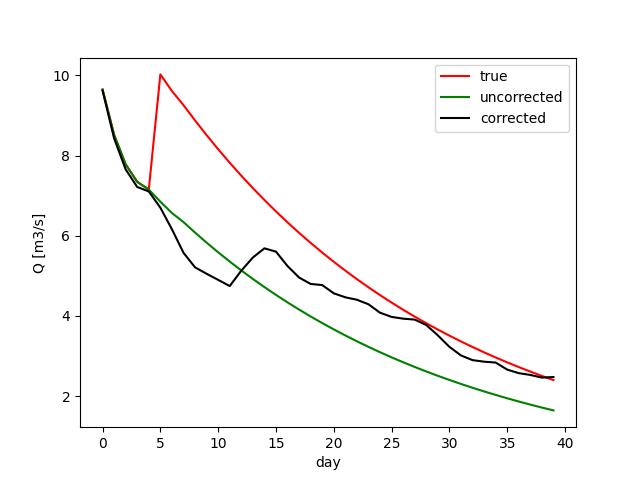
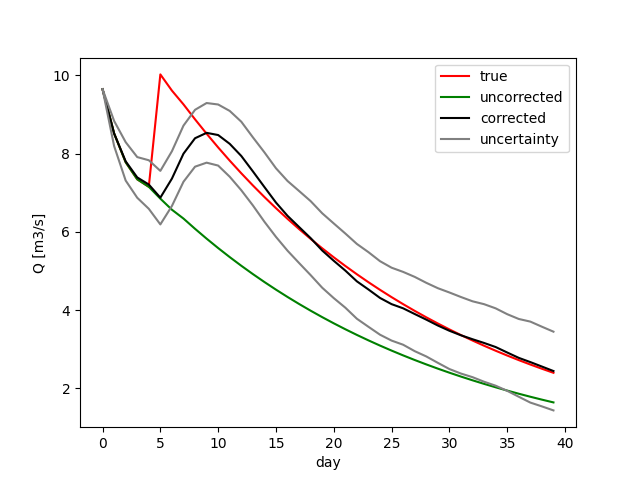
Use `MapsNoiseModel` instead of `ar1Model` in the `EnKF` example.
The results now look much better than before.

This commit also adds uncertainty bounds to the time-series plot.

diff --git a/demos/openda_projects/EnKF/README.rst b/demos/openda_projects/EnKF/README.rst
@@ -21,13 +21,12 @@ Adjust model states with the Ensemble Kalman Filter
 
 This example extends the `multiple sequential runs` example.  Now `OpenDA`_
 does not only perturb some model properties randomly but does so to improve
-simulations.  There is also a similarity to the
-`calibration example`_, in so far that both are artificial data experiments.
-In the `calibration example`_, we checked the `DUD`_ algorithm being able
-to find the `Alpha`_ value we knew to be the "true" one.  In this example,
-we instead distort the model state `LZ`_ during a simulation run and check
-the Ensemble Kalman Filter to be able to adjust another simulation run
-to this distortion.
+simulations.  There is also a similarity to the `calibration example`_, in so
+far that both are artificial data experiments. In the `calibration example`_,
+we checked the `DUD`_ algorithm being able to find the `Alpha`_ value we knew
+to be the "true" one.  In this example, we instead distort the model state
+`LZ`_ during a simulation run and check the Ensemble Kalman Filter to adjust
+another simulation run to this distortion.
 
 Prepare the artificial data
 ...........................
@@ -107,13 +106,13 @@ Adjust state LZ
 
 The `OpenDA`_ configuration resembles the configuration of the
 `multiple sequential runs`_ example.  Notable differences are that file
-`main.oda`_ selects the Ensemble Kalman Filter algorithm, file
-`algorithm.xml`_ enables not only `stochInit` but also `stochForcing` for
-stepwise state perturbations, and files `model.xml`_ and `hydpy.xml`_ define
-an exchange item for changing the value of state `LZ`_ instead of parameter
-`Alpha`_.  Using 20 ensemble members and the AR(1) model for generating
-the stochastic perturbations, the Ensemble Kalman Filter returns the
-following corrected discharge series:
+`main.oda`_ selects the Ensemble Kalman Filter algorithm, file `algorithm.xml`_
+enables not only `stochInit` but also `stochForcing` for stepwise state
+perturbations, and files `model.xml`_ and `hydpy.xml`_ define an exchange item
+for changing the value of state `LZ`_ instead of parameter `Alpha`_.  Using 20
+ensemble members and the `MapsNoiseModel` for generating the stochastic
+perturbations, the Ensemble Kalman Filter returns the following corrected
+discharge series:
 
 >>> _ = run_subprocess('oda_run_batch main.oda', verbose=False)
 >>> import runpy
@@ -127,19 +126,20 @@ closely than the uncorrected discharge:
 >>> print_values(sim_uncorrected[-7:])
 2.118165, 2.030685, 1.946818, 1.866414, 1.789331, 1.715432, 1.644584
 >>> print_values(sim_corrected[-7:])
-2.859344, 2.837776, 2.662068, 2.573667, 2.529102, 2.462565, 2.477358
+3.163455, 3.059748, 2.919574, 2.782616, 2.674682, 2.560758, 2.446207
 >>> print_values(sim_true[-7:])
 3.092645, 2.964919, 2.842468, 2.725074, 2.612528, 2.504631, 2.40119
 
-Inspecting the complete simulation period, one realises that there is
-a short subperiod where the "corrected" results are actually worse than
-the uncorrected ones and that the "corrected" discharge is generally
-too noisy, which is at least partly be due to the chosen ensemble size:
+The following figure shows the results for the entire simulation period
+and includes uncertainty bounds for the estimated value of `LZ`_:
 
+>>> sim_uncertainty = results['pred_f_std'][:, 0]
 >>> from matplotlib import pyplot
 >>> _ = pyplot.plot(sim_true, 'red', label='true')
 >>> _ = pyplot.plot(sim_uncorrected, 'green', label='uncorrected')
 >>> _ = pyplot.plot(sim_corrected, 'black', label='corrected')
+>>> _ = pyplot.plot(sim_corrected + 1.96 * sim_uncertainty, 'grey', label='uncertainty')
+>>> _ = pyplot.plot(sim_corrected - 1.96 * sim_uncertainty, 'grey')
 >>> _ = pyplot.ylabel('Q [m3/s]')
 >>> _ = pyplot.xlabel('day')
 >>> _ = pyplot.legend()
